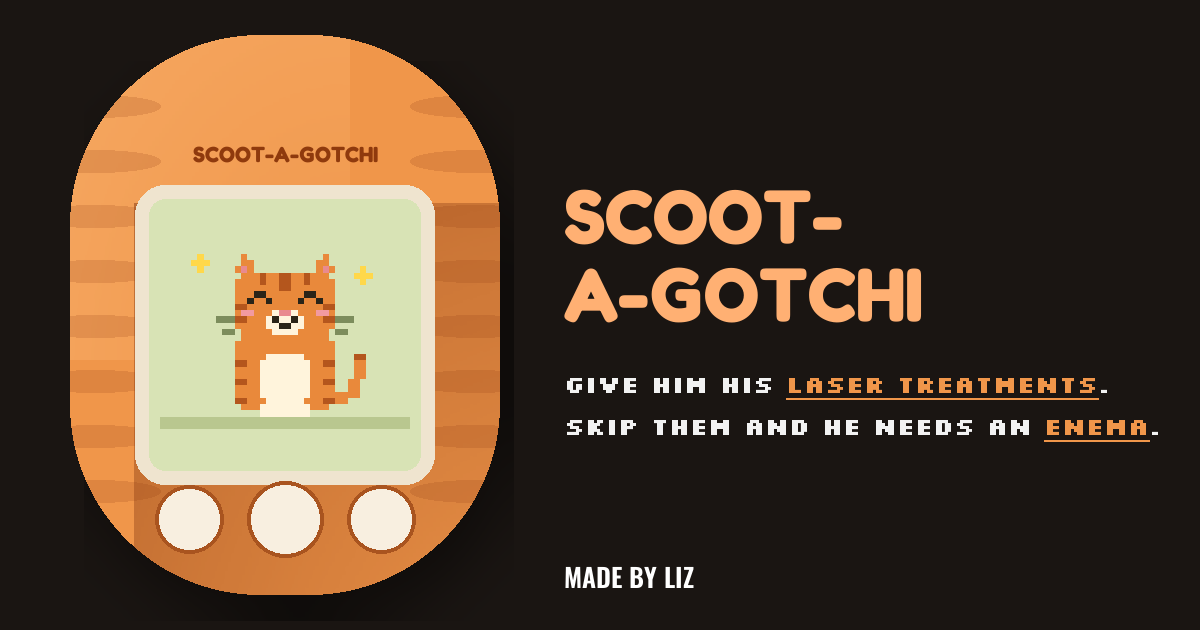
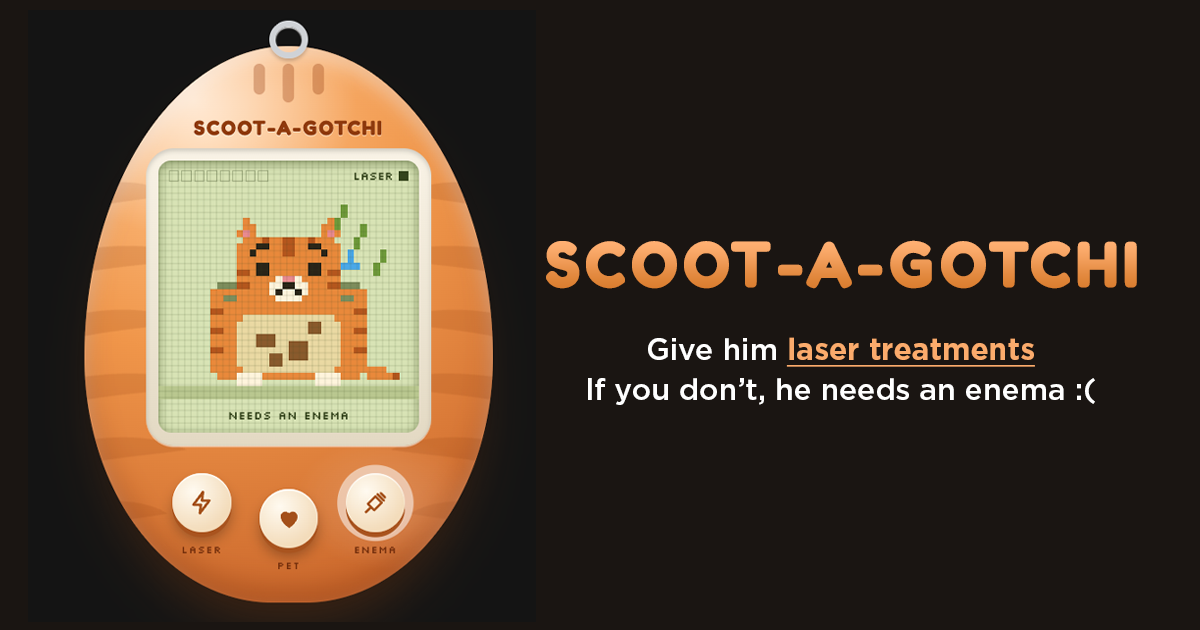
Unfurl update

diff --git a/index.html b/index.html
@@ -6,16 +6,16 @@
 <title>Scoot-a-gotchi</title>
 <meta name="description" content="Give Scoot his laser treatments or he'll get constipated and need an enema. A tiny virtual pet for a real cat, made by Liz.">
 <meta property="og:type" content="website">
-<meta property="og:url" content="https://scoot-ashen.vercel.app/">
+<meta property="og:url" content="https://scoot-made-by-liz.vercel.app/">
 <meta property="og:title" content="Scoot-a-gotchi">
 <meta property="og:description" content="Give Scoot his laser treatments or he'll get constipated and need an enema.">
-<meta property="og:image" content="https://scoot-ashen.vercel.app/og-image.png">
+<meta property="og:image" content="https://scoot-made-by-liz.vercel.app/og-image.png">
 <meta property="og:image:width" content="1200">
 <meta property="og:image:height" content="630">
 <meta name="twitter:card" content="summary_large_image">
 <meta name="twitter:title" content="Scoot-a-gotchi">
 <meta name="twitter:description" content="Give Scoot his laser treatments or he'll get constipated and need an enema.">
-<meta name="twitter:image" content="https://scoot-ashen.vercel.app/og-image.png">
+<meta name="twitter:image" content="https://scoot-made-by-liz.vercel.app/og-image.png">
 <link rel="preconnect" href="https://fonts.googleapis.com">
 <link rel="preconnect" href="https://fonts.gstatic.com" crossorigin>
 <link href="https://fonts.googleapis.com/css2?family=Silkscreen&family=Fredoka:wght@600;700&family=Oswald:wght@600&display=swap" rel="stylesheet">
